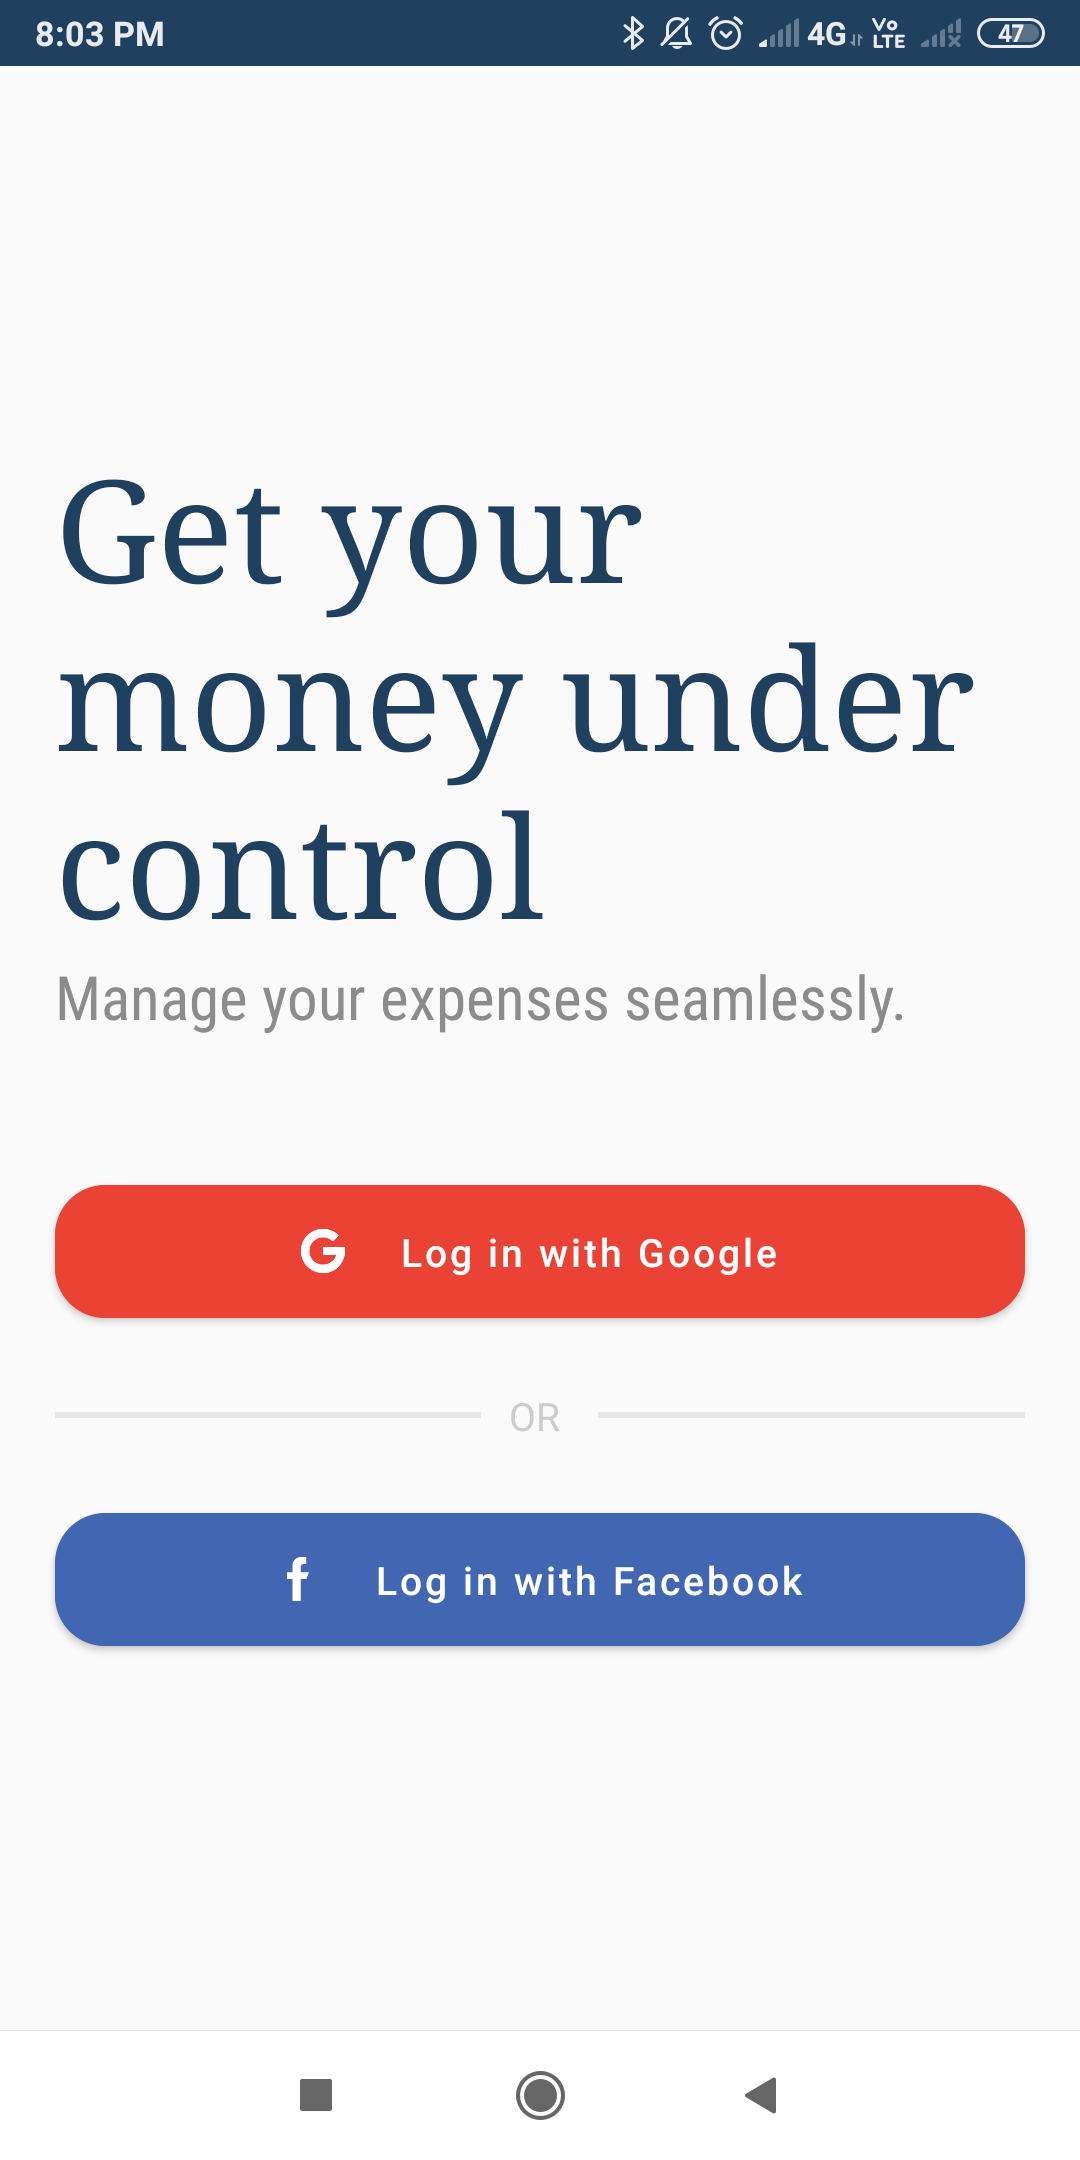
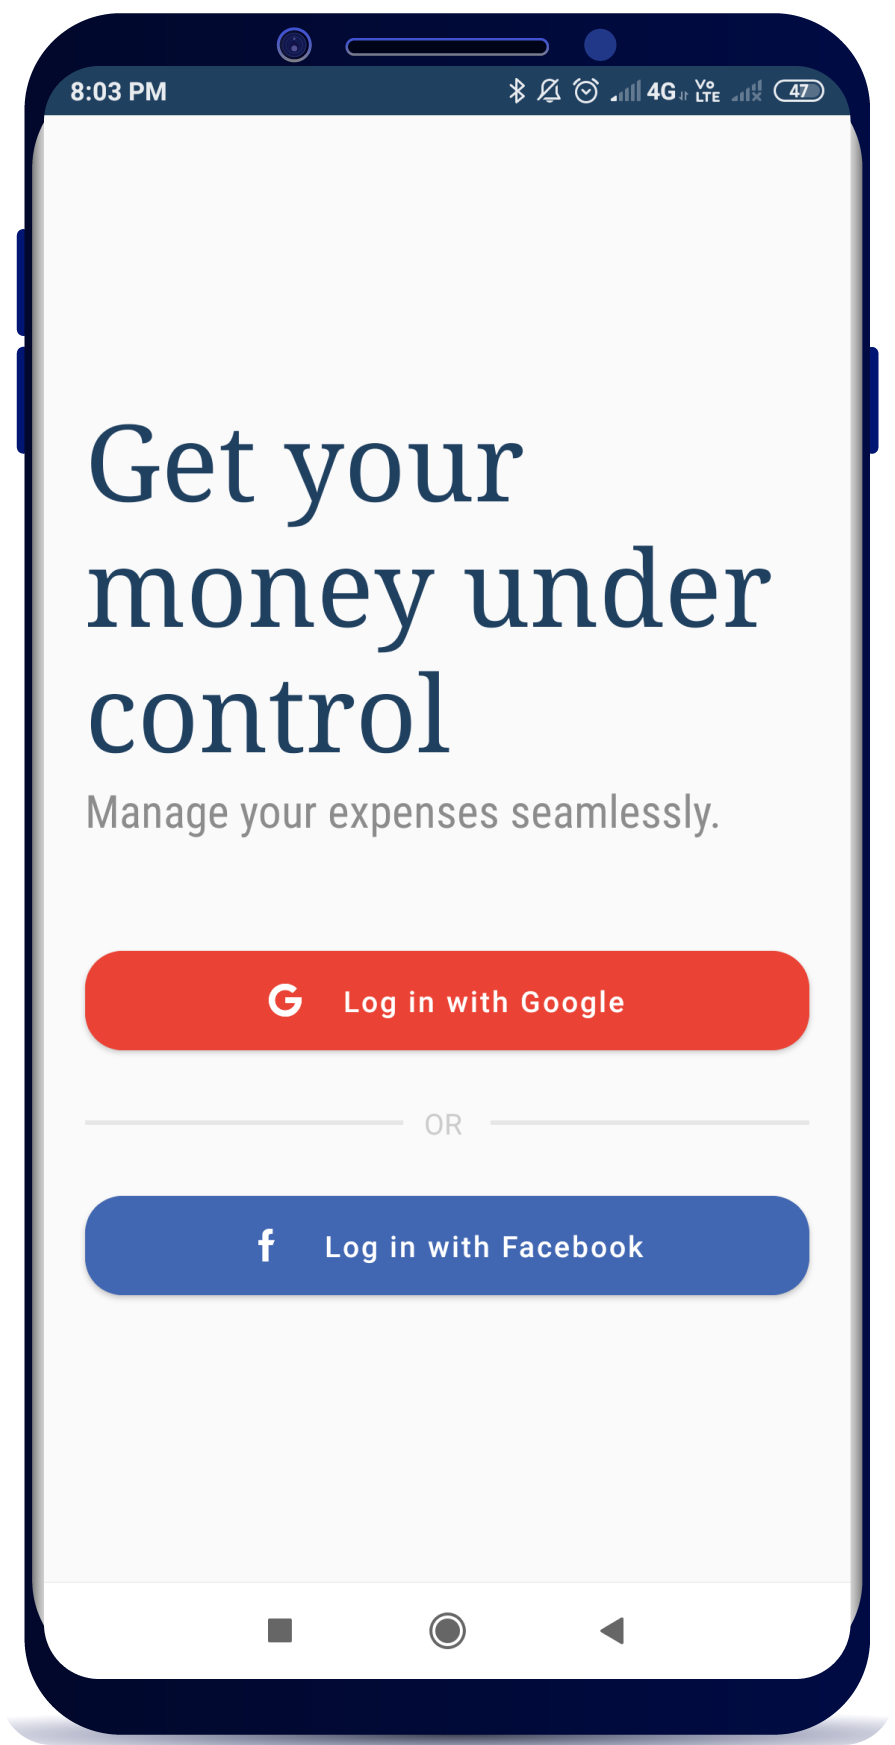
added mobile project images

Changed region(s): [[0.0, 0.0, 1.0, 1.0]]

diff --git a/components/Work.js b/components/Work.js
@@ -4,10 +4,20 @@ import MobileProject from './MobileProject';
 import WebProject from './WebProject';
 
 function Work() {
-    let MyCollectionslides = [
+    let ExpenseTrackerslides = [
         <Image src="/expense-tracker1.png" alt="expense-tracker1" key="1" height={500} width={250} />,
         <Image src="/expense-tracker2.png" alt="expense-tracker2" key="2" height={500} width={250} />,
         <Image src="/expense-tracker3.png" alt="expense-tracker3" key="3" height={500} width={250} />
+    ];
+    let MyCollectionslides = [
+        <Image src="/mycollection1.png" alt="expense-tracker1" key="1" height={500} width={250} />,
+        <Image src="/mycollection2.png" alt="expense-tracker2" key="2" height={500} width={250} />,
+        <Image src="/mycollection3.png" alt="expense-tracker3" key="3" height={500} width={250} />
+    ];
+    let CovidFightslides = [
+        <Image src="/covidfight1.png" alt="expense-tracker1" key="1" height={500} width={250} />,
+        <Image src="/covidfight2.png" alt="expense-tracker2" key="2" height={500} width={250} />,
+        <Image src="/covidfight3.png" alt="expense-tracker3" key="3" height={500} width={250} />
     ];
 
     const styleImage = {
@@ -68,13 +78,13 @@ function Work() {
                 </div>
                 <div className="designs" id="mobileprojects" style={isMobileChecked ? { display: 'block' } : { display: 'none' }}>
                     <MobileProject title="Expense Tracker App" description="A finance managing app that allows you to track your day to day expenses easily and quickly. One can get meaningful and in-depth analysis and also generate reports."
-                        techstack="Xamarin Android, Firebase, Google and Facebook Authentication, Typeform" slides={MyCollectionslides} showGoogleStore={true}
+                        techstack="Xamarin Android, Firebase, Google and Facebook Authentication, Typeform" slides={ExpenseTrackerslides} showGoogleStore={true}
                         livelink="https://play.google.com/store/apps/details?id=com.debweb.expensetracker&hl=en" codelink="https://github.com/Deba22/Expense-Tracker---Android-App" />
                     <MobileProject title="My Collection App" description="An android app(digital book) that consists of various captivating and realistic articles/stories written by Golda and Curie."
                         techstack="Xamarin Android, Firebase, Lottie Animation" slides={MyCollectionslides} showGoogleStore={false}
                         livelink="https://github.com/Deba22/MyCollection/blob/master/mycollection.apk" codelink="https://github.com/Deba22/MyCollection" />
                     <MobileProject title="Covid Fight App" description="An android app that helps you maintain social distance by alerting you when other people are too close so that you can move, and maintain social distance from them."
-                        techstack="Xamarin Android, Bluetooth" slides={MyCollectionslides} showGoogleStore={false}
+                        techstack="Xamarin Android, Bluetooth" slides={CovidFightslides} showGoogleStore={false}
                         livelink="https://github.com/Deba22/Covid-Fight-App/blob/master/covidfight.apk" codelink="https://github.com/Deba22/Covid-Fight-App" />
                 </div>
                 <div className="view-more">

diff --git a/styles/globals.css b/styles/globals.css
@@ -757,6 +757,8 @@ footer .container {
 }
 
 /* End Blogs Page */
+
+/* Start mobile carousel */
 .react-3d-carousel .slider-container .slider-left div{
   border-top: 2px solid #EC615B !important;
     border-right: 2px solid #EC615B !important;
@@ -771,3 +773,9 @@ footer .container {
   border-left: 2px solid #EC615B !important;
   color: #000 !important;
 }
+
+.react-3d-carousel .slider-container .slider-content .slider-single .slider-single-content
+{
+  box-shadow: none !important;
+}
+/* End mobile carousel */
